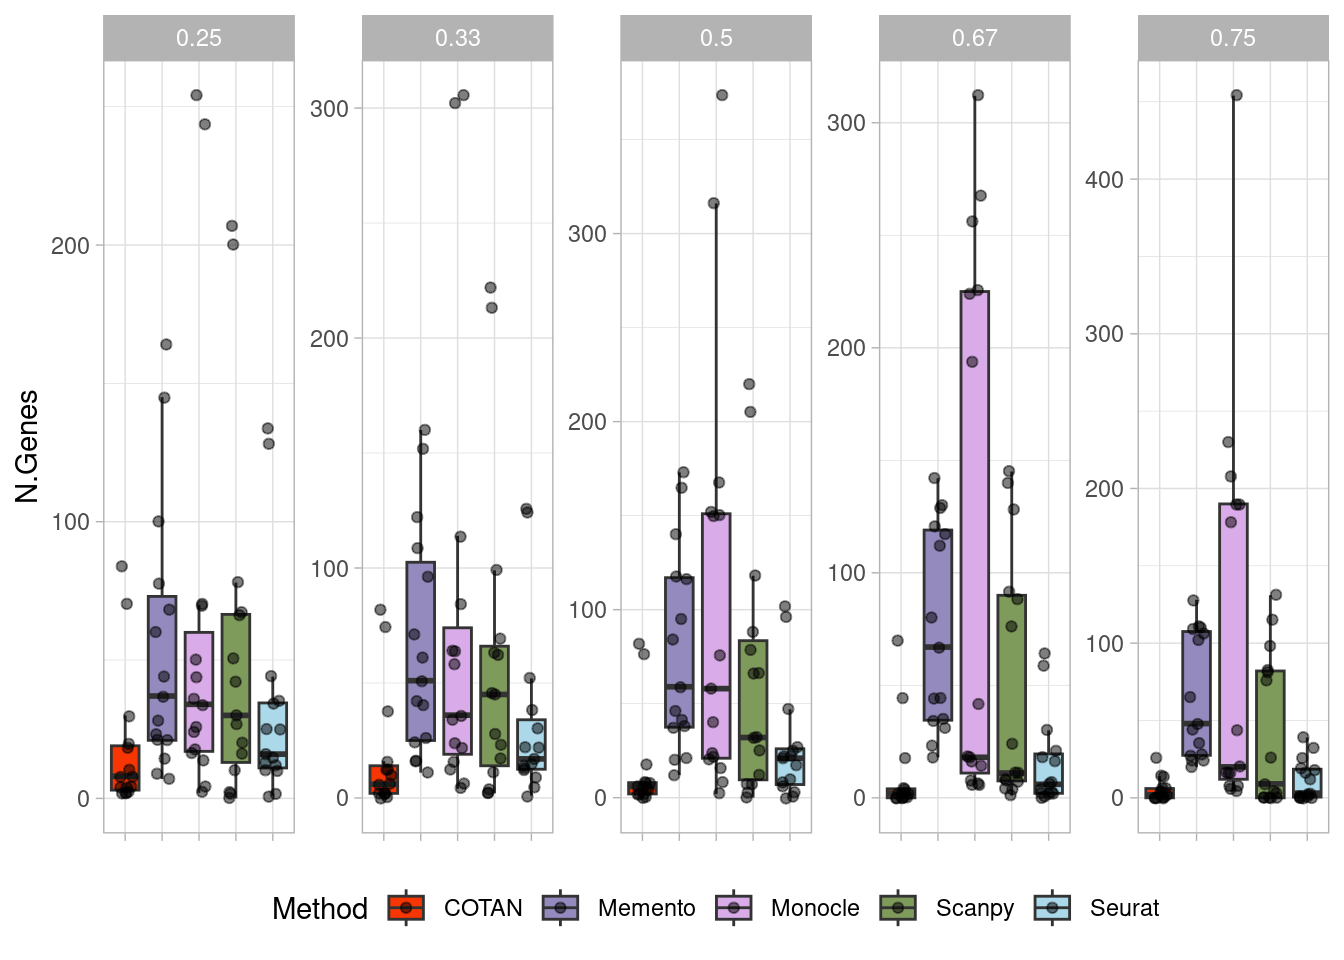
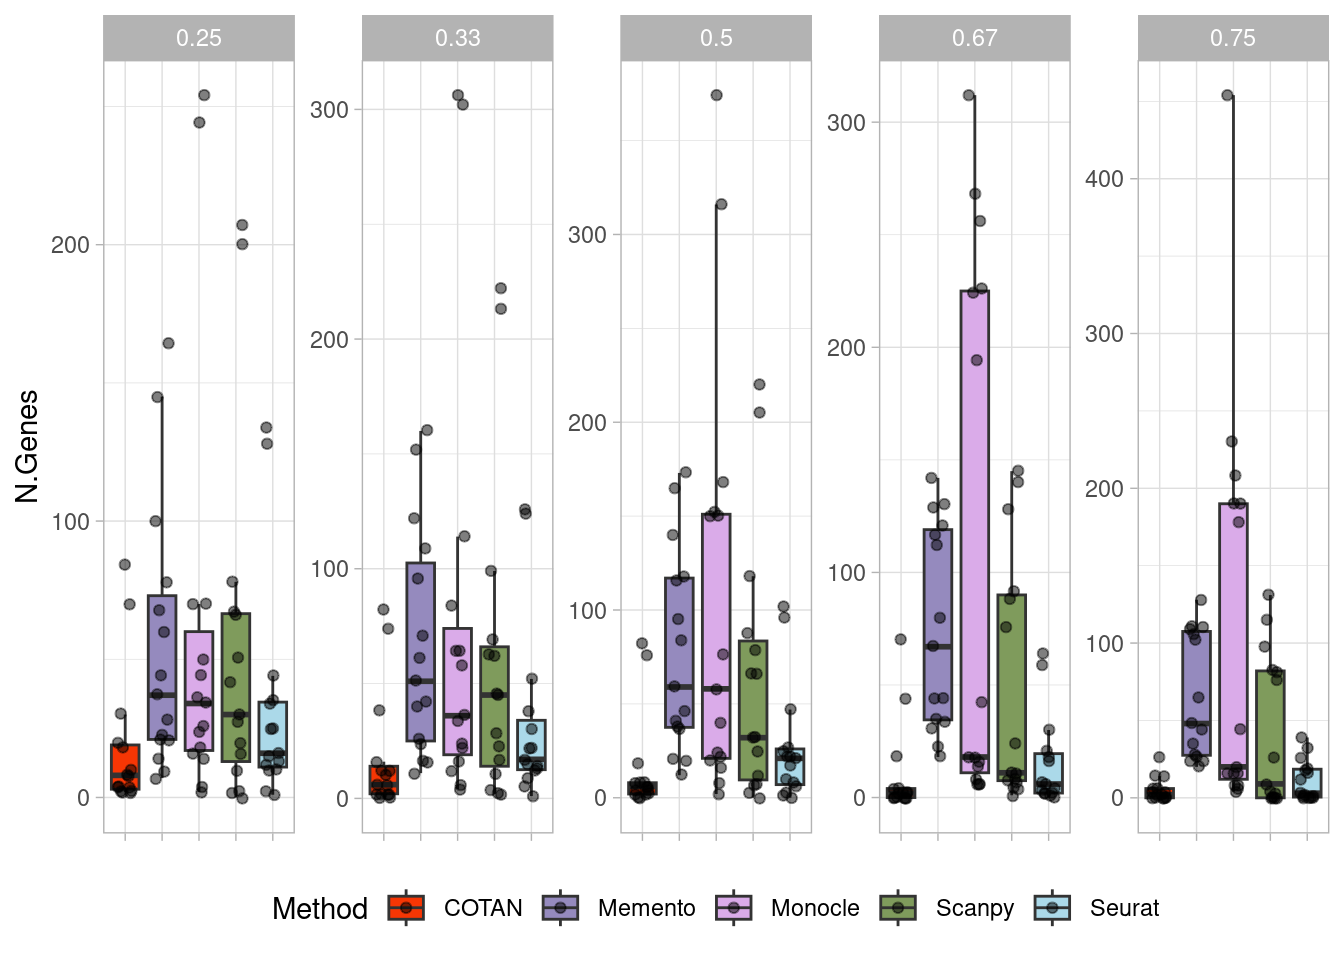
Built site for gh-pages

diff --git a/DEA_Type1Er.html b/DEA_Type1Er.html
@@ -653,7 +653,6 @@ pre > code.sourceCode > span > a:first-child::before { text-decoration: underlin
    
   <ul>
   <li><a href="#automatic-functions" id="toc-automatic-functions" class="nav-link active" data-scroll-target="#automatic-functions">Automatic functions</a></li>
-  <li><a href="#new-methods-added-in-revision" id="toc-new-methods-added-in-revision" class="nav-link" data-scroll-target="#new-methods-added-in-revision">New methods added in revision</a></li>
   <li><a href="#summarize-the-output" id="toc-summarize-the-output" class="nav-link" data-scroll-target="#summarize-the-output">Summarize the output</a></li>
   </ul>
 </nav>
@@ -935,9 +934,6 @@ pre > code.sourceCode > span > a:first-child::before { text-decoration: underlin
 <span id="cb4-81"><a href="#cb4-81" aria-hidden="true" tabindex="-1"></a></span>
 <span id="cb4-82"><a href="#cb4-82" aria-hidden="true" tabindex="-1"></a>}</span></code><button title="Copy to Clipboard" class="code-copy-button"><i class="bi"></i></button></pre></div>
 </div>
-</section>
-<section id="new-methods-added-in-revision" class="level3">
-<h3 class="anchored" data-anchor-id="new-methods-added-in-revision">New methods added in revision</h3>
 </section>
 <section id="summarize-the-output" class="level3">
 <h3 class="anchored" data-anchor-id="summarize-the-output">Summarize the output</h3>
